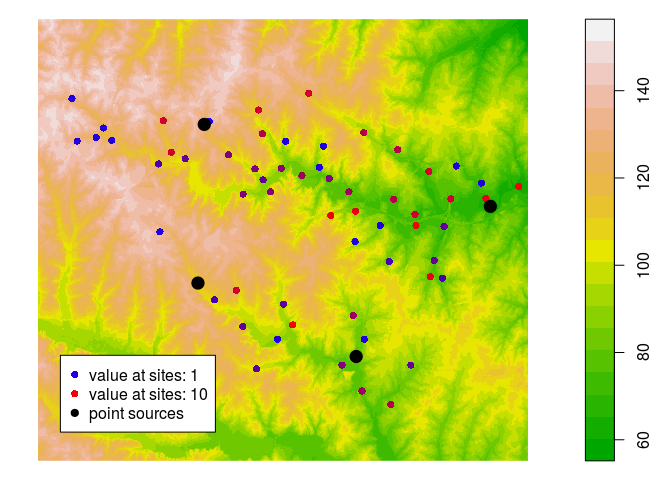
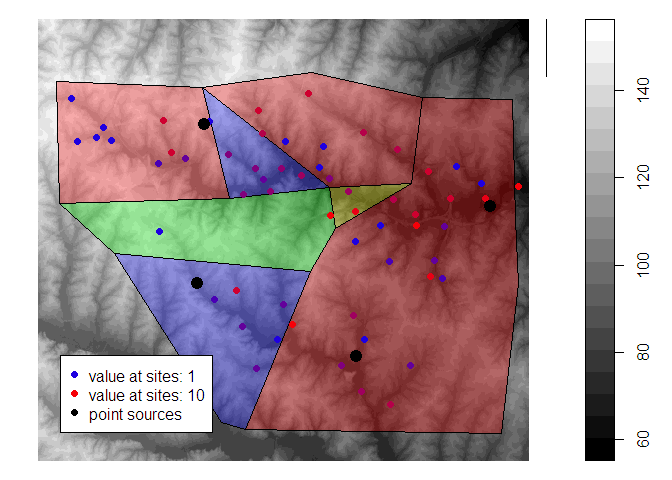
prep CRAN release 1.1.0 c

diff --git a/README.md b/README.md
@@ -40,7 +40,7 @@ devtools::install_github("MiKatt/openSTARS")
 library("openSTARS")
 ```
 
-## Basic usage
+## Step by step usage
 
 ### Initiate an ephemeral GRASS session
 First, a GRASS session must be initiated:
@@ -50,18 +50,6 @@ library(openSTARS)
 initGRASS(gisBase = "/usr/lib/grass74/",
           home = tempdir(),
           override = TRUE)
-#> gisdbase    /tmp/RtmpJ17uXr 
-#> location    file5d2536a4f3a0 
-#> mapset      file5d2515b1ac6e 
-#> rows        1 
-#> columns     1 
-#> north       1 
-#> south       0 
-#> west        0 
-#> east        1 
-#> nsres       1 
-#> ewres       1 
-#> projection  NA
 ```
 
 Alternatively, the path to a specific GRASS database directory and a Location name can be provided.
@@ -80,12 +68,26 @@ On Windows, this might look like this:
 
 ```r
 library(openSTARS)
-initGRASS(gisBase = "c:/Program Files/GRASS FUS 7.4.0",
+initGRASS(gisBase = "c:/Program Files/GRASS GIS 7.2.0", #"c:/Program Files/GRASS FUS 7.4.0",
           home = tempdir(),
           gisDbase = "./GRASSDB",
           location = "test_openSTARS",
           remove_GISRC = T,
           override = TRUE)
+#> gisdbase    ./GRASSDB 
+#> location    test_openSTARS 
+#> mapset      file27b4427319a3 
+#> rows        450 
+#> columns     500 
+#> north       228500 
+#> south       215000 
+#> west        630000 
+#> east        645000 
+#> nsres       30 
+#> ewres       30 
+#> projection  +proj=lcc +lat_1=36.16666666666666 +lat_2=34.33333333333334
+#> +lat_0=33.75 +lon_0=-79 +x_0=609601.22 +y_0=0 +no_defs +a=6378137
+#> +rf=298.257222101 +towgs84=0.000,0.000,0.000 +to_meter=1
 ```
 
 
@@ -99,7 +101,7 @@ First, `setup_grass_environment` prepares the GRASS environment by setting
  * the projection to that one of the observation sites or to an epsg code provided
  * the region to the extent of the DEM.
  
-For more information on the concept of GRASS Locations, Mapsets etc. see the [GRASS GIS Quickstart](https://grass.osgeo.org/grass73/manuals/helptext.html).
+For more information on the concept of GRASS Locations, Mapsets etc. see the [GRASS GIS Quickstart](https://grass.osgeo.org/grass74/manuals/helptext.html).
 
 
 ```r
@@ -109,8 +111,8 @@ setup_grass_environment(dem = dem_path)
 #> Setting up GRASS Environment ...
 
 gmeta()
-#> gisdbase    /tmp/RtmpJ17uXr 
-#> location    file5d2536a4f3a0 
+#> gisdbase    ./GRASSDB 
+#> location    test_openSTARS 
 #> mapset      PERMANENT 
 #> rows        450 
 #> columns     500 
@@ -125,14 +127,15 @@ gmeta()
 #> +rf=298.257222101 +towgs84=0.000,0.000,0.000 +to_meter=1
 ```
 
-Then, use `import_data` to import all data into GRASS (DEM, observations sites and other optional data). Optional data includes a stream network to burn into the DEM (see `derive_streams`), prediction sites if they have been already created with a different program (alternatively, prediction sites can be created using `calc_prediction_sites`), and raster and vector maps of potential predictor variables for the SSN model that can later be intersected with the catchments of the sites (`calc_attributes_edges` and `calc_attributes_sites_approx`, or `calc_attributes_sites_exact`).
+Then, use `import_data` to import all data into GRASS (DEM, observation sites and other optional data). Optional data includes a stream network to burn into the DEM (see `derive_streams`), prediction sites if they have been already created with a different program (alternatively, prediction sites can be created using `calc_prediction_sites`), and raster and vector maps of potential predictor variables for the SSN model that can later be intersected with the catchments of the sites (`calc_attributes_edges` and `calc_attributes_sites_approx`, or `calc_attributes_sites_exact`).
+
 
 ```r
 sites_path <- system.file("extdata", "nc", "sites_nc.shp", package = "openSTARS")
 preds_path <- c(system.file("extdata", "nc", "landuse.shp", package = "openSTARS"),
                  system.file("extdata", "nc", "pointsources.shp", package = "openSTARS"))
 import_data(dem = dem_path, sites = sites_path, predictor_vector = preds_path, predictor_v_names = c("landuse", "psources"))
-#> Loading DEM into GRASS ...
+#> Loading DEM into GRASS as dem ...
 #> Loading sites into GRASS as sites_o ...
 #> Loading predictior varibales into GRASS as landuse, psources ...
 #> No streams available, skipping.
@@ -140,24 +143,27 @@ import_data(dem = dem_path, sites = sites_path, predictor_vector = preds_path, p
 
 The DEM is loaded into the GRASS database as a raster map named `dem`, the sites as a vector map named `sites_o` and the (optional) stream network as a vector map named `streams_o`. Predictor sites are stored under their base file name, potential predictors either using their base file names or the ones provided in 'predictor_r_names' and 'predictor_v_names', respectively.
 
-Here's how the data looks like:
+The data looks like this:
 
 
 ```r
 dem <- readRAST("dem", ignore.stderr = TRUE)
 sites <- readVECT("sites_o", ignore.stderr = TRUE)
 psources <- readVECT("psources", ignore.stderr = TRUE)
-plot(dem, col = terrain.colors(20))
+lu <- readVECT("landuse", ignore.stderr = TRUE)
+plot(dem, col = gray(seq(0,1,length.out=20)))
+col <- adjustcolor(c("red", "green", "blue", "yellow"), alpha.f = 0.3)
+plot(lu, add = T, col = col[as.numeric(as.factor(lu$landuse))])
+legend(x = par("usr")[2]*1.000, y = par("usr")[4]*1.000, col = col, pch = 15, legend = as.factor(sort(unique(lu$landuse))), 
+  title = "landuse", ncol = 4)
 cols <- colorRampPalette(c("blue", "red"))(length(sites$value))[rank(sites$value)]
 points(sites, pch = 16, col = cols)
 points(psources, pch = 19, col = 1, cex = 1.7)
 legend(x = par("usr")[1]*1.002, y = par("usr")[3]*1.015, pch = c(16, 16, 19), ncol = 1, col = c(range(cols),1), legend = c(paste("value at sites:", c(range(sites$value))), "point sources"))
 ```
 
-![](README_files/figure-html/plot_data1-1.png)<!-- -->
-
 ### Derive streams from DEM
-Next, the streams should be derived from the DEM.
+Next, the streams must be derived from the DEM.
 
 ```r
 derive_streams()
@@ -165,7 +171,7 @@ derive_streams()
 #> Deriving streams from DEM ...
 #> Calculating stream topology ...
 ```
-An existing stream network (if provided to `import_data` before) can be burnt into the DEM to force the streams derived from the DEM to the existing ones. Additionally, other specifications on how the streams shall be created can be provided (see `?derive_streams` and the GRASS function  [r.stream.extract](https://grass.osgeo.org/grass72/manuals/r.stream.extract.html) for details).
+An existing stream network (if provided to `import_data` before) can be burnt into the DEM to force the streams derived from the DEM to mapped ones. It is not possible to use a given stream network directly but it has to be derived from the DEM because otherwise it lacks topological information needed in the consecutive steps. Additional specifications on how the streams shall be created can be provided (see `?derive_streams` and the GRASS function [r.stream.extract](https://grass.osgeo.org/grass74/manuals/r.stream.extract.html) for details).
 
 
 ```r
@@ -183,7 +189,7 @@ points(sites, pch = 16, col = cols)
 ```
 
 ### Check and correct the network
-Next, the stream network should be checked if there are stream segments with more than two inflows. This must be corrected because the .ssn object must not have such complex junctions. In the nc data set provided, there will be complex junctions only if accum_threshold is small.
+Next, the stream network should be checked if there are stream segments with more than two inflows. These must be corrected because the .ssn object must not have such complex junctions. In the nc data set provided, there will be complex junctions only if accum_threshold is small.
 
 
 ```r
@@ -221,7 +227,7 @@ accordingly (cat, length, prev_str01, prev_str02, next_str etc.). Currently, thi
 only works for three inflows to the same outflow but not more.
 
 Other topological errors as mentioned for the ArcGIS toolbox STARS do not occur
-if the stream network is derived from a DEM
+if the stream network is derived from a DEM.
 
 ### Prepare edges
 Now, information needed for the .ssn object can be derived for the streams and stored in a new vector map `edges`.
@@ -253,6 +259,7 @@ The additional fields hold information about the network: 'next_str' is the 'str
 Often, survey sites do not lay exactly on the stream network (due to GPS imprecision, stream representation as lines, derivation of streams from a DEM, etc.). To assign an exact position of the sites on the network they are moved to the closest stream segment (snapped) using the GRASS function
 [v.distance](https://grass.osgeo.org/grass72/manuals/v.distance.html). Additionally, attributes needed for .ssn object are assigned: 
 
+
 ```r
 calc_sites()
 ```
@@ -270,7 +277,7 @@ head(sites@data, n = 4)
 * upstream distance (upDist), i.e. the distance to the network outlet calculated using [r.stream.distance](https://grass.osgeo.org/grass70/manuals/addons/r.stream.distance.html).
 * distance ratio, i.e. the ratio of the distance from the outflow of the edge to the point along the edge and the total length of the edge segment (distRatio).
 
-Additional fields hold information on the snapping: distance of the original site to the closest edge (dist), i.e. how far the point was moved, and the new x and y coordinates (xm, ym). The filed 'cat_edge' gives the 'cat' of the stream segment the point lies on. It is used to identify the edge the point lies on to extract the 'rid'.
+Additional fields hold information on the snapping: distance of the original site to the closest edge ('dist'), i.e. how far the point was moved, and the new x and y coordinates ('xm', 'ym'). The filed 'cat_edge' gives the 'cat' of the stream segment the point lies on. It is used to identify the edge the point lies on to extract the 'rid'.
 
 
 ```r
@@ -286,7 +293,7 @@ legend(x = par("usr")[1]*1.002, y = par("usr")[3]*1.01, col = 1, pt.bg = "grey",
 ```
 
 ### Prepare prediction sites
-Prediction sites can be created along the streams. Either the distance between the sites must be provided (`dist`) or the approximate number of sites that shall be created (`nsites`). Additionally, the creation can be restricted to certain networks (`netIDs`).
+Prediction sites can be created along the streams. Either the distance between the sites must be provided (`dist`) or the approximate number of sites that shall be created (`nsites`). Additionally, the creation can be restricted to certain networks (`netIDs`). The sites will be assigned regularly on the stream network. If prediction sites with specifec coordinates are needed, they should be created manually.
 
 Similar as for the observation sites, attributes needed for .ssn object are assigned: 
 
@@ -324,7 +331,7 @@ Attributes (i.e. predictor variables for the .ssn object) can be calculated for 
 1. approximately as described in Peterson & Ver Hoef, 2014: STARS: An ARCGIS Toolset Used to Calculate the Spatial Information Needed to Fit Spatial Statistical Models to Stream Network Data. J. Stat. Softw., 56 (2).
 2. exactly by intersecting the catchment of each point with raster maps;
 
-For the approximate calculation, first attributes must be intersected with the sub-catchments of the stream segments and then they are calculated for each site based on the distance ratio of the point. Note that the sub-catchment area 'H2OArea' for each stream segment is calculated automatically in calc_edges.
+For the approximate calculation, first attributes must be intersected with the sub-catchments of the stream segments and then they are assigned to each site based on the distance ratio of the point. Note that the sub-catchment area 'H2OArea' for each stream segment is calculated automatically in calc_edges.
 
 
 ```r
@@ -334,19 +341,36 @@ execGRASS("r.slope.aspect", flags = c("overwrite","quiet"),
             elevation = "dem",
             slope = "slope"
           ))
-# calculate average slope per sub-catchment of each stream segment
+# calculate average slope per sub-catchment of each stream segment using raster and imported vector data
 calc_attributes_edges(input_raster = "slope", stat_rast = "mean",
-                      attr_name_rast = "avSlo", round_dig = 4)
-# calculate approx. catchment area and average slope per catchment of each site
-calc_attributes_sites_approx(sites_map = "sites",
-                             input_attr_name = "avSlo",
-                             output_attr_name = "avSloA",
-                             stat = "mean")
+                      attr_name_rast = "avSlo", input_vector = "landuse", 
+                      stat_vect = "percent", attr_name_vect = "landuse", 
+                      round_dig = 4)
+#calculate approx. catchment area and average slope per catchment of each site
+calc_attributes_sites_approx(sites_map = "sites", 
+                             input_attr_name = c("avSlo","agri","forest","grass","urban"),
+                             output_attr_name = c("avSloA","agriA","forestA","grassA","urbanA"),
+                             stat = c("mean", rep("percemt", 4)))
 sites <- readVECT("sites", ignore.stderr = TRUE)
 head(sites@data, n = 4)
+#>   cat cat_ value cat_edge     dist       xm       ym locID pid netID rid
+#> 1   1    1     1        5 79.90783 631046.1 226074.1     1   1    15   4
+#> 2   2    2     1        5 61.15861 632011.9 225175.7     2   2    15   4
+#> 3   3    3     1        2 72.04108 631203.4 224771.5     3   3    15   1
+#> 4   4    4     1        2 31.22663 631787.3 224883.8     4   4    15   1
+#>     upDist  distalong     ratio H2OAreaA avSloA agriA forestA grassA
+#> 1 22490.34  289.70563 0.8457322     0.38 3.2165  0.12       0      0
+#> 2 21166.96 1613.08658 0.1410340     2.11 3.2165  0.66       0      0
+#> 3 21827.61   81.19927 0.9193403     0.11 2.6833  0.07       0      0
+#> 4 21104.67  804.14221 0.2012018     1.08 2.6833  0.71       0      0
+#>   urbanA
+#> 1      0
+#> 2      0
+#> 3      0
+#> 4      0
 ```
 
-The exact calculation of attribute values for the total catchment of each point can take quite long (depending on the number of points) because for each point the total catchment is first delineated based on the DEM and then intersected with the raster map(s) provided. Note that if no raster map is provided the total catchment area for each point is calculated.
+The exact calculation of attribute values for the total catchment of each point can take quite long (depending on the number of points): For each point, first the total catchment is delineated based on the DEM and then intersected with the map(s) provided. 
 
 
 
@@ -356,9 +380,27 @@ calc_attributes_sites_exact(sites_map = "sites",
                             input_raster = "slope",
                             stat_rast = "mean",
                             attr_name_rast = "avSloE", 
+                            input_vector = "landuse",
+                            stat_vect = "percent",
+                            attr_name_vect = "landuse",
                             round_dig = 4)
 sites <- readVECT("sites", ignore.stderr = TRUE)
 head(sites@data, n = 4)
+#>   cat cat_ value cat_edge     dist       xm       ym locID pid netID rid
+#> 1   1    1     1        5 79.90783 631046.1 226074.1     1   1    15   4
+#> 2   2    2     1        5 61.15861 632011.9 225175.7     2   2    15   4
+#> 3   3    3     1        2 72.04108 631203.4 224771.5     3   3    15   1
+#> 4   4    4     1        2 31.22663 631787.3 224883.8     4   4    15   1
+#>     upDist  distalong     ratio H2OAreaA avSloA agriA forestA grassA
+#> 1 22490.34  289.70563 0.8457322     0.38 3.2165  0.12       0      0
+#> 2 21166.96 1613.08658 0.1410340     2.11 3.2165  0.66       0      0
+#> 3 21827.61   81.19927 0.9193403     0.11 2.6833  0.07       0      0
+#> 4 21104.67  804.14221 0.2012018     1.08 2.6833  0.71       0      0
+#>   urbanA H2OArea avSloE   agri grass forest urban
+#> 1      0  1.0476 2.8314 0.4528     0      0     0
+#> 2      0  2.4192 3.1704 0.7624     0      0     0
+#> 3      0  0.6696 2.3850 0.7755     0      0     0
+#> 4      0  1.2780 2.5754 0.8824     0      0     0
 ```
 
 In both alternatives, the catchment area for each site is calculated automatically ('H2OAreaA' for `calc_attributes_sites_appox` and 'H2OArea' for `calc_attributes_sites_exact`).
